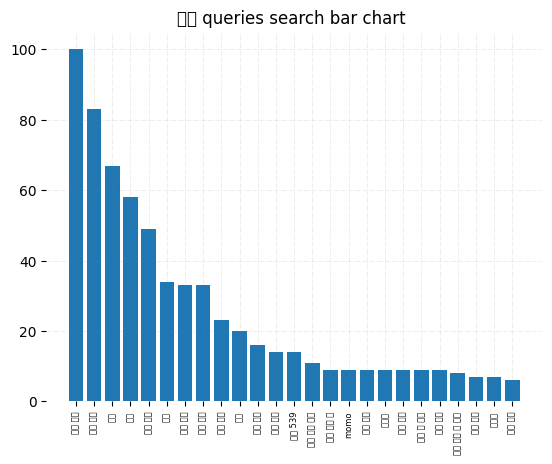
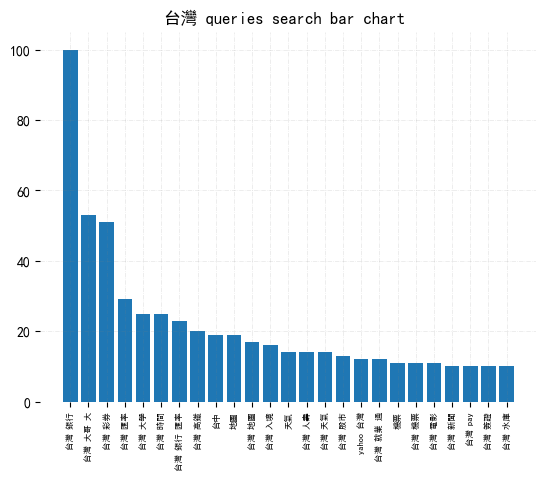
import chinese font package

diff --git a/serp_api.py b/serp_api.py
@@ -3,6 +3,8 @@ import pandas as pd
 import matplotlib
 matplotlib.use('Agg')
 from matplotlib import pyplot as plt
+from pylab import mpl
+mpl.rcParams['font.sans-serif'] = ['SimHei']
 from Get_Continent import *
 # keyword = "youtube"
 # type = ["GEO_MAP_0","RELATED_QUERIES","RELATED_TOPICS"]
@@ -59,8 +61,6 @@ def fetch_data(keyword,type):
             plt.legend(loc='upper center', bbox_to_anchor=(0.5, -0.04), ncol=3)
             plt.title('%s region search pie chart '%keyword)
             image_filename = f'static/img/{keyword}_region.png'
-            plt.rcParams["font.sans-serif"]=["SimHei"] #set font
-            plt.rcParams["axes.unicode_minus"]=False
             plt.savefig(image_filename,bbox_inches='tight')
             data_list.append({"image_filename": image_filename})
             plt.close()
@@ -86,8 +86,6 @@ def fetch_data(keyword,type):
                     alpha=0.2)
             ax.set_title('%s queries search bar chart '%keyword,
                          loc='center', )
-            plt.rcParams["font.sans-serif"]=["SimHei"] #set font
-            plt.rcParams["axes.unicode_minus"]=False
             image_filename = f'static/img/{keyword}_queries.png'
             plt.savefig(image_filename,bbox_inches='tight')
             data_list.append({"image_filename": image_filename})
@@ -117,8 +115,6 @@ def fetch_data(keyword,type):
             plt.legend(loc='upper center', bbox_to_anchor=(0.5, -0.04), ncol=3)
             plt.title('%s topics search pie chart'%keyword)
             image_filename = f'static/img/{keyword}_topics.png'
-            plt.rcParams["font.sans-serif"]=["SimHei"] #set font
-            plt.rcParams["axes.unicode_minus"]=False
             plt.savefig(image_filename,bbox_inches='tight')
             data_list.append({"image_filename": image_filename})
             plt.close()
